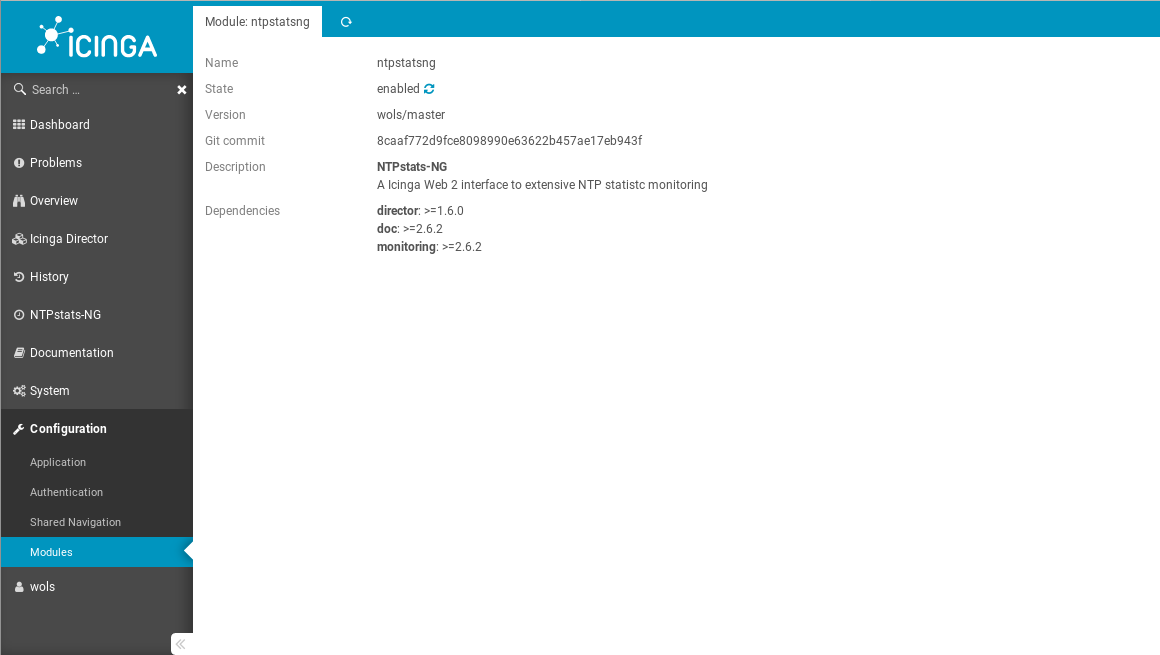
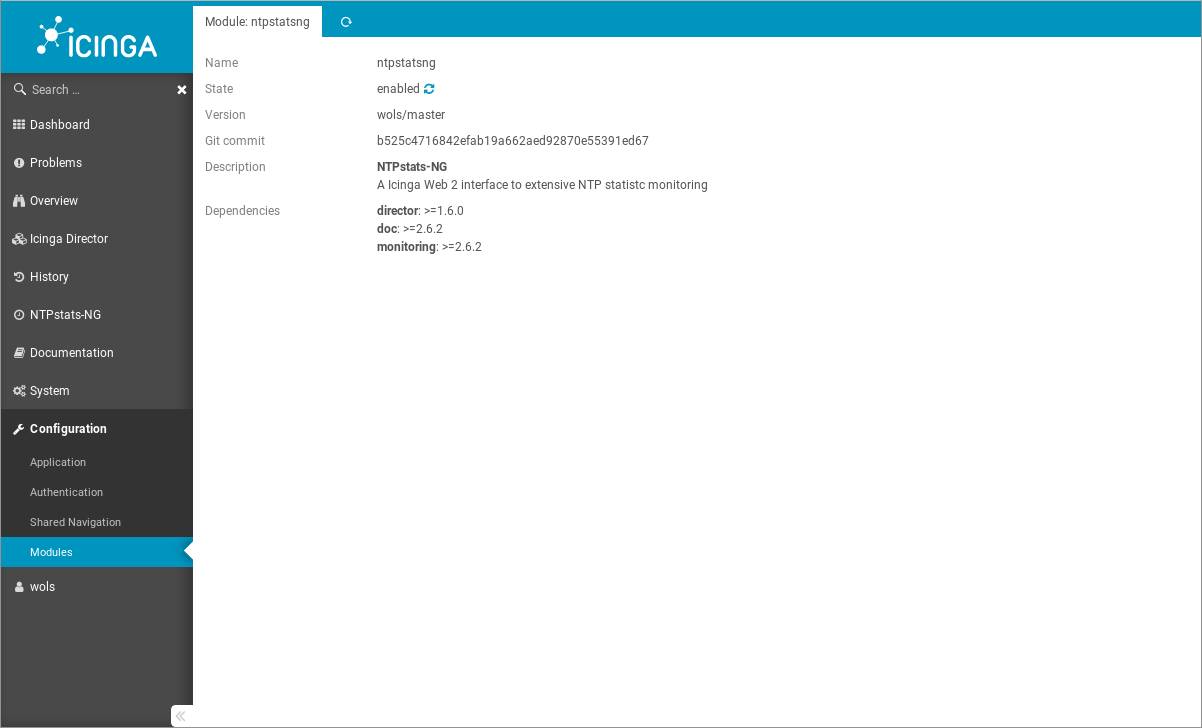
add zones, update screenshots

Changed region(s): [[0.0, 0.0, 1.0, 1.0], [0.0, 0.5191, 0.0931, 0.5496]]

diff --git a/configuration.php b/configuration.php
@@ -13,23 +13,30 @@ $section->add('Peers', array(
     'priority'    => 91,
 ));
 
+$section->add('Zones', array(
+    'description' => $this->translate('List peer zones'),
+    'icon'        => 'cloud',
+    'url'         => 'ntpstatsng/list/zones',
+    'priority'    => 92,
+));
+
 $section->add('Probes', array(
     'description' => $this->translate('List monitor probes'),
     'icon'        => 'eye',
     'url'         => 'ntpstatsng/list/probes',
-    'priority'    => 92,
+    'priority'    => 93,
 ));
 
 $section->add('Controllers', array(
     'description' => $this->translate('List probe controllers'),
     'icon'        => 'sitemap',
     'url'         => 'ntpstatsng/list/controllers',
-    'priority'    => 93,
+    'priority'    => 94,
 ));
 
 $section->add('Documentation', array(
     'description' => $this->translate('Module documentation'),
     'icon'        => 'doc-text',
     'url'         => 'doc/module/toc?moduleName=ntpstatsng',
-    'priority'    => 94,
+    'priority'    => 95,
 ));

diff --git a/doc/01-About.md b/doc/01-About.md
@@ -4,8 +4,9 @@ Please read the following chapters for more insights on this module:
 
 * [Introduction](10-Introduction.md#module_ntpstatsng_introduction)
 * [Peers](11-Peers.md#module_ntpstatsng_peers)
-* [Probes](12-Probes.md#module_ntpstatsng_probes)
-* [Controllers](13-Controllers.md#module_ntpstatsng_controllers)
+* [Zones](12-Zones.md#module_ntpstatsng_zones)
+* [Probes](13-Probes.md#module_ntpstatsng_probes)
+* [Controllers](14-Controllers.md#module_ntpstatsng_controllers)
 
 ----
 

diff --git a/doc/10-Introduction.md b/doc/10-Introduction.md
@@ -46,13 +46,17 @@ Do you trust a self-report?
 
 [Read more...](11-Peers.md#module_ntpstatsng_peers)
 
+### Zones
+
+[Read more...](12-Zones.md#module_ntpstatsng_zones)
+
 ### Probes
 
-[Read more...](12-Probes.md#module_ntpstatsng_probes)
+[Read more...](13-Probes.md#module_ntpstatsng_probes)
 
 ### Controllers
 
-[Read more...](13-Controllers.md#module_ntpstatsng_controllers)
+[Read more...](14-Controllers.md#module_ntpstatsng_controllers)
 
 ----
 

diff --git a/doc/12-Zones.md b/doc/12-Zones.md
@@ -1,0 +1,7 @@
+# Zones <a id="module_ntpstatsng_zones"></a>
+
+Here is explained what **NTP peer zones** are...
+
+----
+
+[NTPstats-NG](/icingaweb2/doc/module/toc?moduleName=ntpstatsng) &#169; 2016-2018 [WOLS](https://github.com/wols/icingaweb2-module-ntpstatsng)
